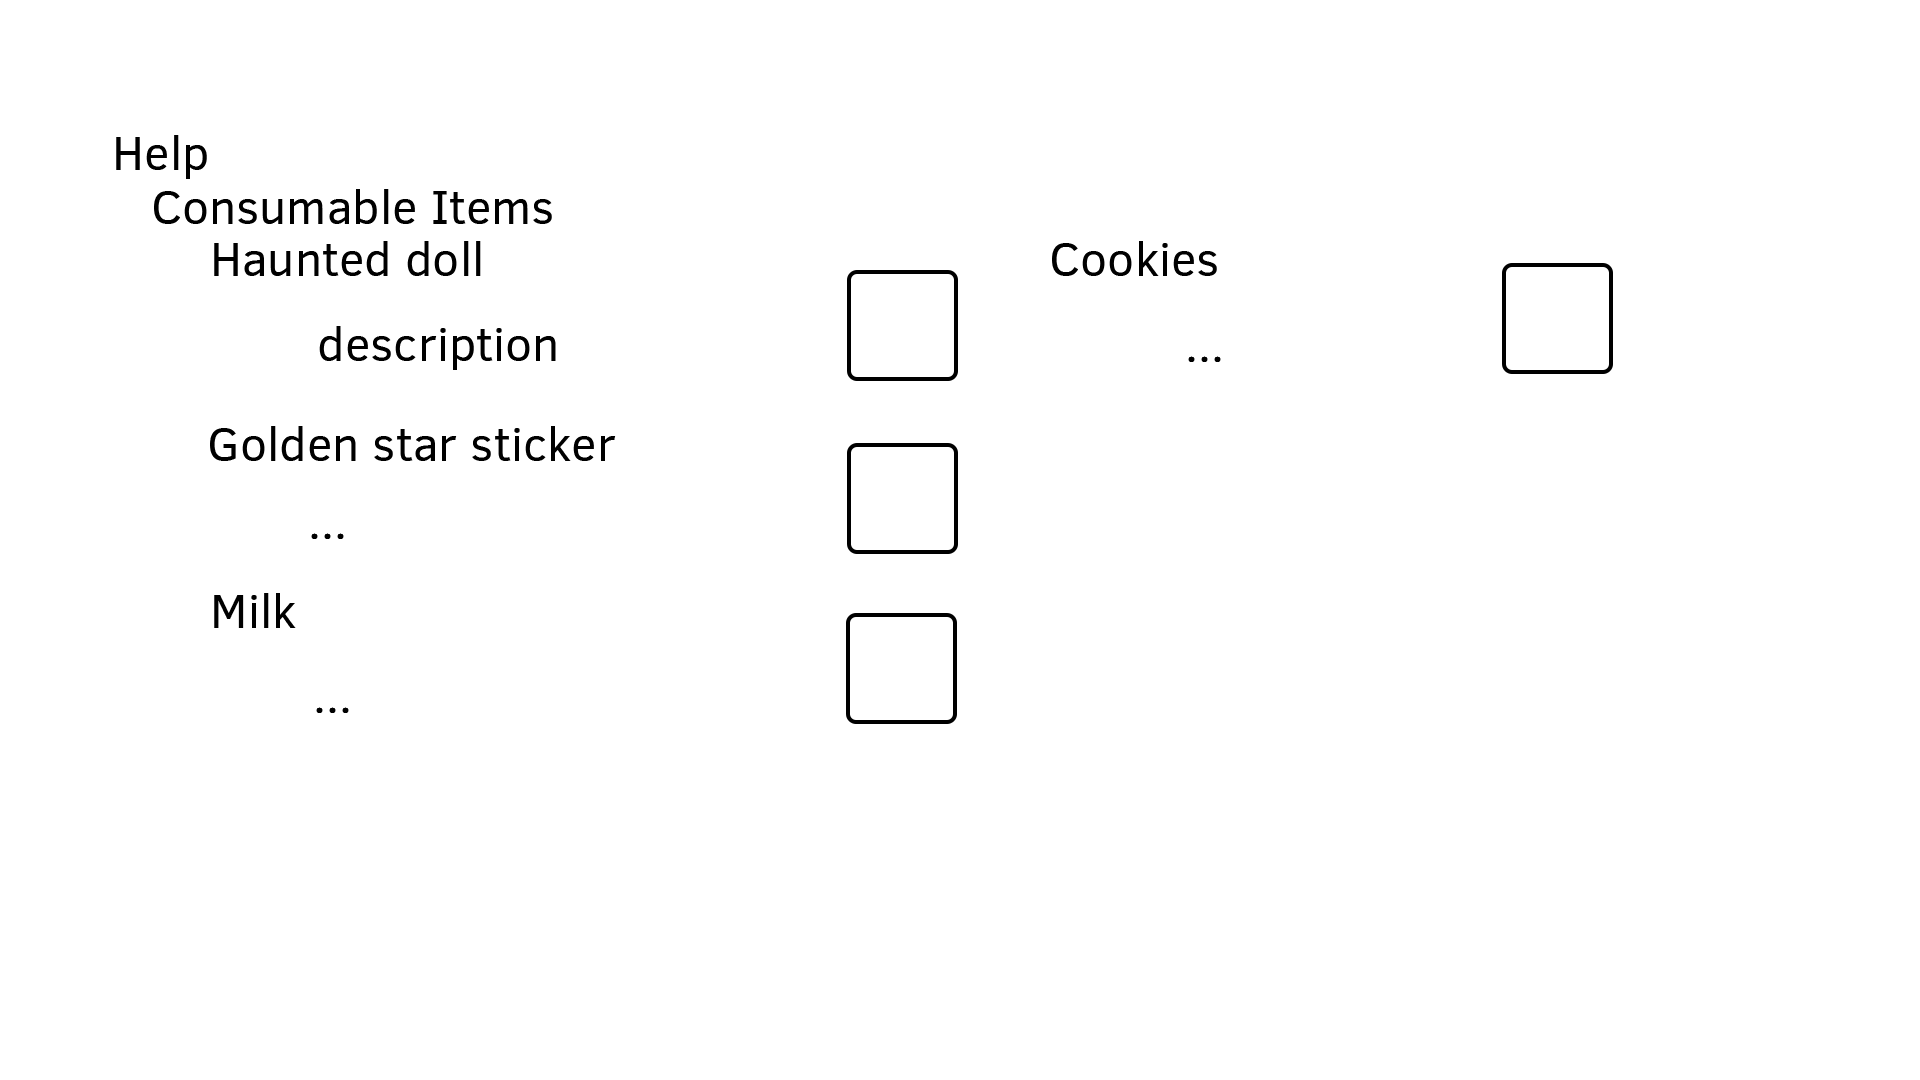
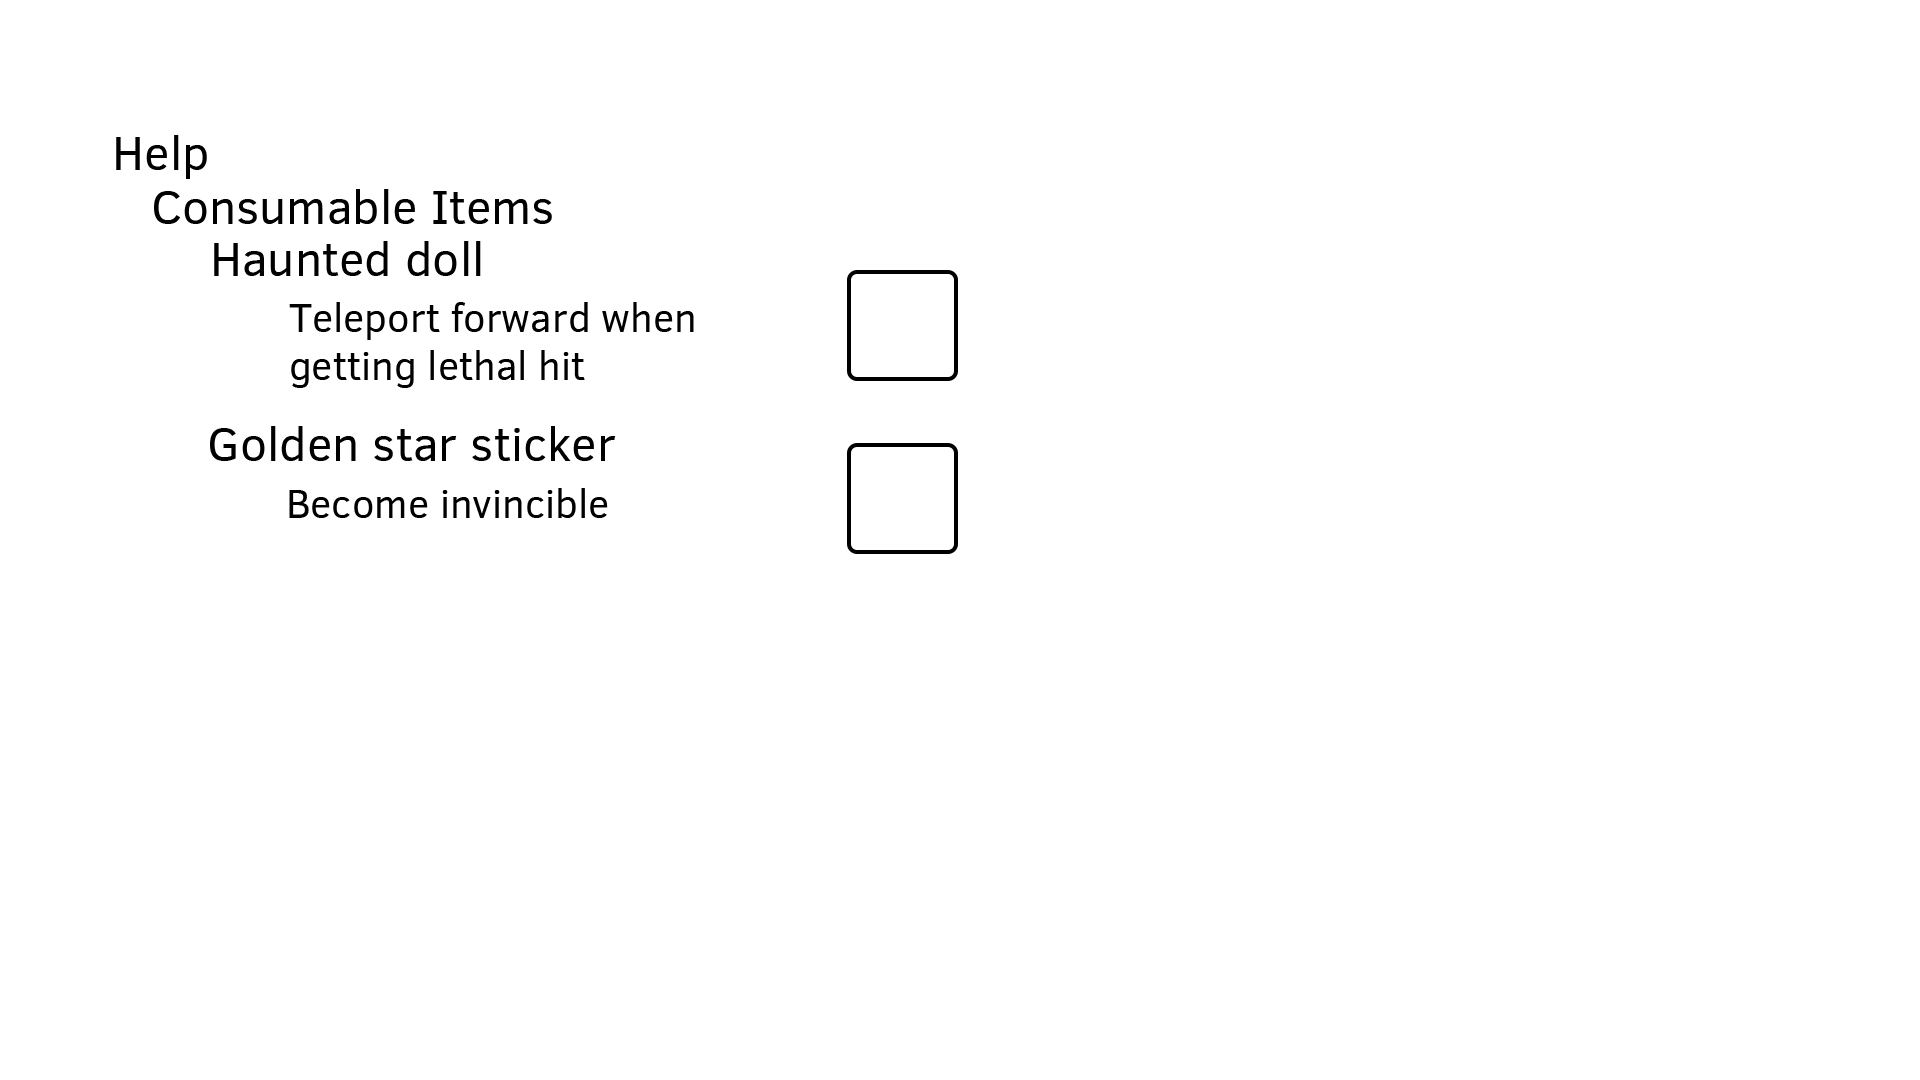
Update about page, splash screen and improve sound effect

diff --git a/public/benchmark3/js/HelpMenu.js b/public/benchmark3/js/HelpMenu.js
@@ -10,6 +10,8 @@ var arrowCounter;
 var completed;
 var lv;
 var mute;
+var sadakos;
+var items;
 
 sadako.HelpMenu.prototype = {
     init: function (complete, level, sound, bgMusic) {
@@ -17,6 +19,8 @@ sadako.HelpMenu.prototype = {
         lv = level;
         mute = sound;
         this.bgMusic = bgMusic;
+        sadakos = [];
+        items = [];
     },
     create: function () {
 
@@ -57,6 +61,54 @@ sadako.HelpMenu.prototype = {
             soundButton.frame = 0;
         }
 
+        this.player = this.game.add.sprite(935,710,'sadako');
+        this.player.scale.setTo(0.4);
+        this.player.animations.add('walkleft',[5,6,7,8,9,10,11,12]);
+        this.player.animations.play('walkleft',10,true);
+        sadakos.push(this.player);
+
+        this.player = this.game.add.sprite(1720,705,'sadako');
+        this.player.scale.setTo(0.4);
+        this.player.animations.add('idlelighterleft',[19,20,21,22,23,24,25]);
+        this.player.animations.play('idlelighterleft',10,true);
+        sadakos.push(this.player);
+
+        this.player = this.game.add.sprite(935,920,'sadako');
+        this.player.scale.setTo(0.4);
+        this.player.animations.add('jumpupleft',[13,14,15]);
+        this.player.animations.play('jumpupleft',3,true);
+        sadakos.push(this.player);
+
+        var item1 = this.game.add.sprite(925,715,'hauntedDoll');
+        item1.scale.setTo(0.9);
+        item1.visible = false;
+        items.push(item1);
+
+        var item2 = this.game.add.sprite(907,930,'goldStar');
+        item2.scale.setTo(0.9);
+        item2.visible = false;
+        items.push(item2);
+
+        // this.player.animations.add('jumpupleft',[13,14,15]);
+        // this.player.animations.add('jumpdownleft',[17,18]);
+        // this.player.animations.add('idlelighterleft',[19,20,21,22,23,24,25]);
+        // this.player.animations.add('walklighterleft',[24,25,26,27,28,29,30]);
+        // this.player.animations.add('walkgrableft',[32,33,34,35,36,37,38,39]);
+        // this.player.animations.add('idleright',[40,41,42,43,44]);
+        // this.player.animations.add('walkright',[45,46,47,48,49,50,51]);
+        // this.player.animations.add('jumpupright',[52,53,54,55]);
+        // this.player.animations.add('jumpdownright',[57,58]);
+        // this.player.animations.add('idlelighterright',[59,60,61,62,63]);
+        // this.player.animations.add('walklighterright',[64,65,66,67,68,69,70]);
+        // this.player.animations.add('walkgrabright',[72,73,74,75,76,77,78,79,80]);
+        // this.player.animations.add('gainterrorright',[81,82,83,84,85]);
+        // this.player.animations.add('gainterrorleft',[86,87,88,89,90]);
+        // this.player.animations.add('toterrifiedleft',[91,92]);
+        // this.player.animations.add('interrifiedleft',[93,94,95,96]);
+        // this.player.animations.add('toterrifiedright',[97,98]);
+        // this.player.animations.add('interrifiedright',[99,100,101,102]);
+        // this.player.animations.add('spikedleft',[103,104,105]);
+        // this.player.animations.add('spikedright',[106,107,108]);
 
     },
     update: function () {
@@ -71,8 +123,23 @@ sadako.HelpMenu.prototype = {
     arrowClicked: function () {
         if (arrowCounter == 0) {
             arrowCounter = 1;
+            for(let i = 0;i<sadakos.length;i++){
+                sadakos[i].visible = false;
+            }
+
+            for(let i = 0;i<items.length;i++){
+                items[i].visible = true;
+            }
         } else {
             arrowCounter = 0;
+            for(let i = 0;i<items.length;i++){
+                items[i].visible = false;
+            }
+
+            for(let i = 0;i<sadakos.length;i++){
+                sadakos[i].visible = true;
+            }
+            
         }
     },
     back: function () {

diff --git a/public/benchmark3/js/Game.js b/public/benchmark3/js/Game.js
@@ -416,12 +416,12 @@ sadako.Game.prototype = {
         }
 
         this.box.children.forEach(function(element){
-            if(!element.body.blocked.down){
+            if(!element.body.blocked.down && !mute){
                 if(boxLandList.indexOf(element)==-1){
                     boxLandList.push(element);
                 }
             }
-            if(boxLandList.indexOf(element)!=-1 && element.body.blocked.down){
+            if(boxLandList.indexOf(element)!=-1 && element.body.blocked.down && !mute){
                 boxLandList.splice(boxLandList.indexOf(element));
                 boxLandingSound = game.add.audio('blockLanding');
                 boxLandingSound.play();
@@ -462,6 +462,7 @@ sadako.Game.prototype = {
     moveBox: function (player,box){
         if(!boxMoveSoundFlag && !mute){
             var boxMoveSound = game.add.audio('boxMoving');
+            boxMoveSound.volume = 0.1;
             boxMoveSoundFlag = true;
             boxMoveSound.play();
             boxMoveSound.onStop.add(function () {

diff --git a/public/benchmark3/js/Preload.js b/public/benchmark3/js/Preload.js
@@ -100,7 +100,7 @@ sadako.Preload.prototype = {
             fill: "#000000",
             align: "center"
         };
-        var preloadtext = this.game.add.text(this.game.world.centerX, this.game.world.centerY, "Backstory here!!!!!!!", textStyle);
+        var preloadtext = this.game.add.text(this.game.world.centerX, this.game.world.centerY, "Sadako is a little girl who has bad dreams after \n her uncle played the horror movie: The Ring.\n And here starts her adventure.", textStyle);
         preloadtext.anchor.setTo(0.5, 0.5);
         preloadtext.alpha = 0;
         var t = this.game.add.tween(preloadtext);

diff --git a/public/benchmark3/js/AboutMenu.js b/public/benchmark3/js/AboutMenu.js
@@ -49,6 +49,7 @@ sadako.AboutMenu.prototype = {
         }else{
             soundButton.frame = 0;
         }
+        this.player = this.game.add.sprite(400,100,'sadako');
         
 
 
